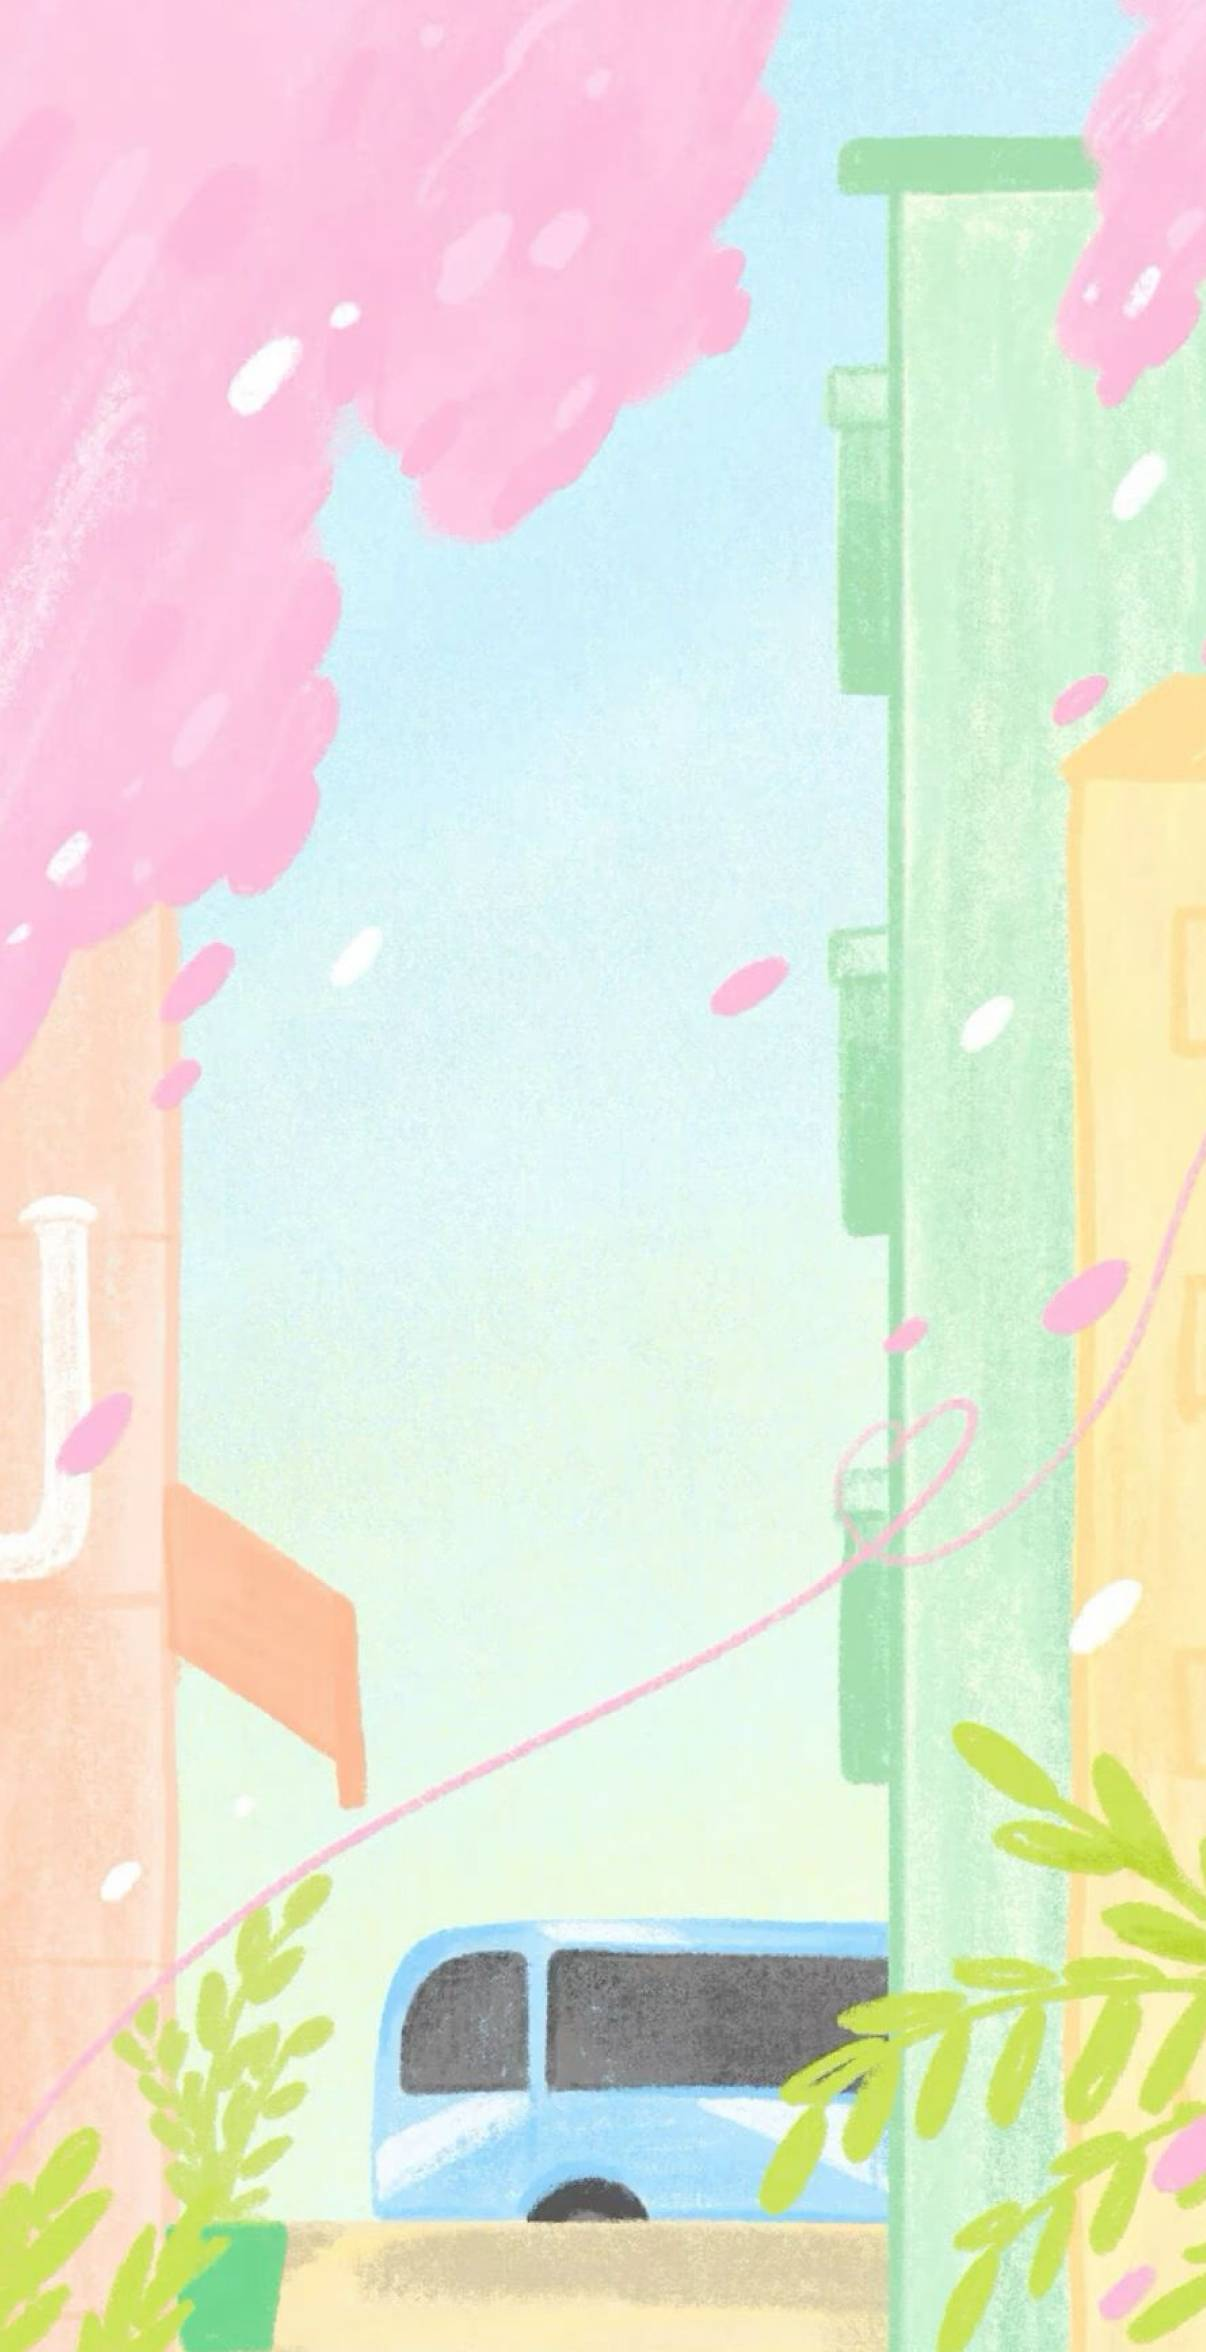
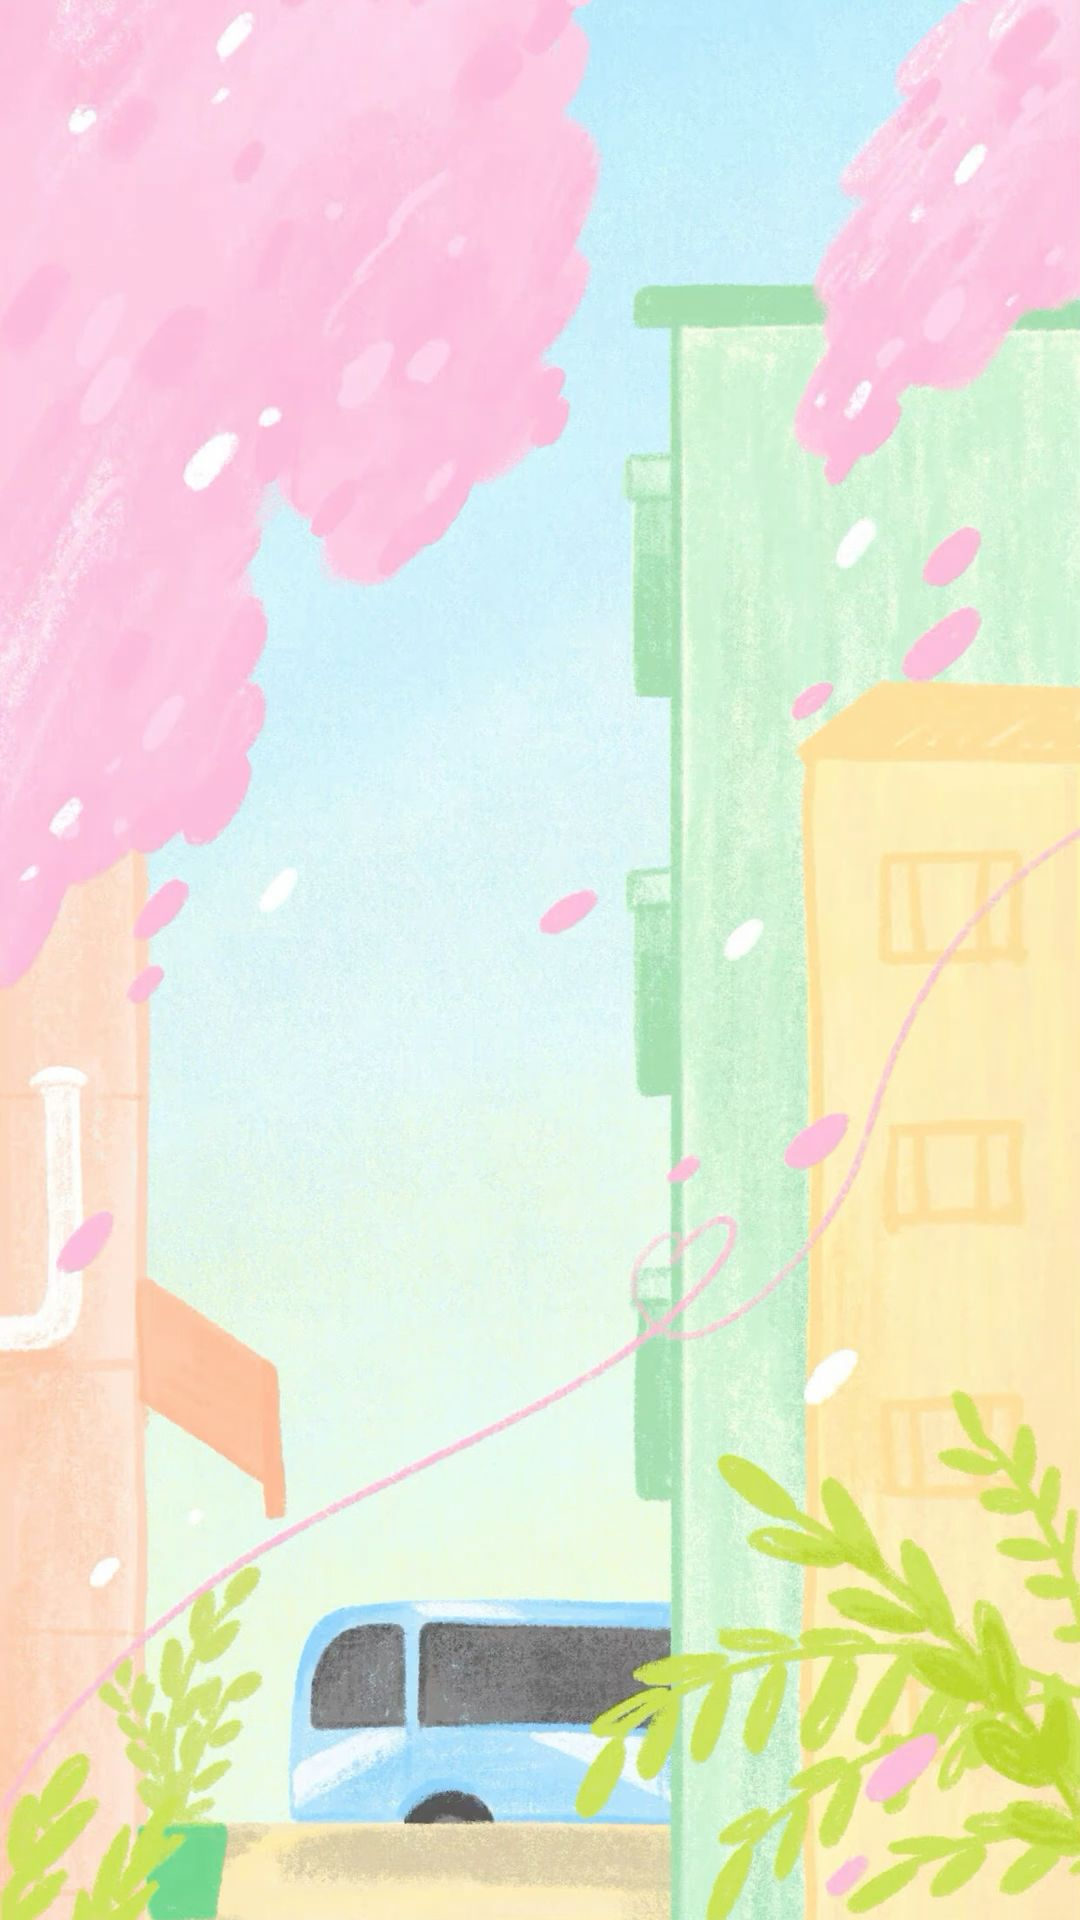
Replace backgrounds with taller Figma exports, add viewport-fit=cover
- study_background.jpg: new 2160x3840 version extends above notch area
- viewport-fit=cover: lets PWA content extend behind status bar
- paddingTop safe-area-inset-top: keeps content below notch

diff --git a/src/App.jsx b/src/App.jsx
@@ -109,7 +109,7 @@ export default function App() {
   const activeTab = reviewMode ? 'wordlist' : page;
 
   return (
-    <div className="w-screen flex items-center justify-center font-cute overflow-hidden" style={{ height: vpH, backgroundColor: '#2b2a26' }}>
+    <div className="w-screen flex items-center justify-center font-cute overflow-hidden" style={{ height: vpH, backgroundColor: '#2b2a26', paddingTop: 'env(safe-area-inset-top)' }}>
       <div className="w-[402px] h-[841px] flex flex-col overflow-hidden sm:shadow-2xl sm:border sm:border-neutral-300 sm:rounded-[2rem] relative bg-warm-bg" style={{ maxHeight: vpH }}>
 
         {/* Main content — all pages stay mounted to preserve state; display:none hides inactive ones */}

diff --git a/index.html b/index.html
@@ -2,7 +2,7 @@
 <html lang="zh-CN">
   <head>
     <meta charset="UTF-8" />
-    <meta name="viewport" content="width=device-width, initial-scale=1.0, maximum-scale=1.0, user-scalable=no" />
+    <meta name="viewport" content="width=device-width, initial-scale=1.0, maximum-scale=1.0, user-scalable=no, viewport-fit=cover" />
     <meta name="apple-mobile-web-app-capable" content="yes" />
     <meta name="apple-mobile-web-app-status-bar-style" content="black-translucent" />
     <meta name="theme-color" content="#2b2a26" />
